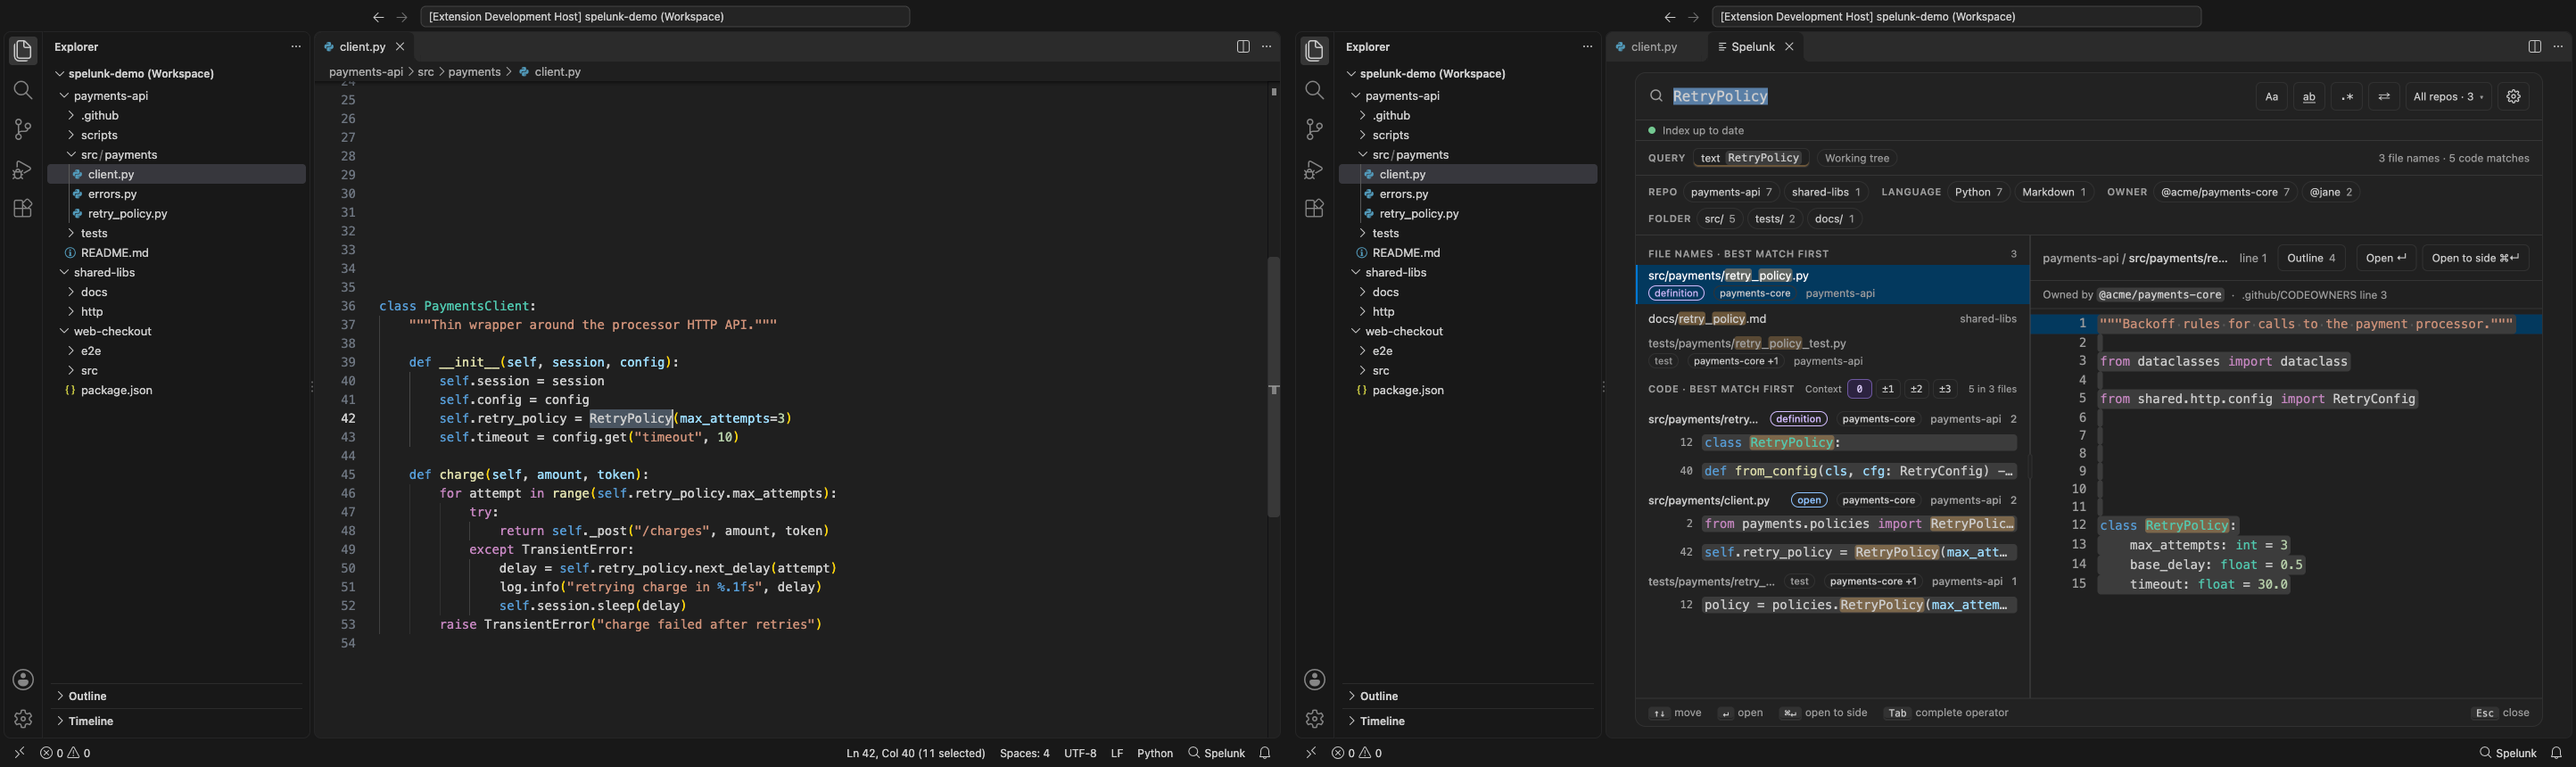
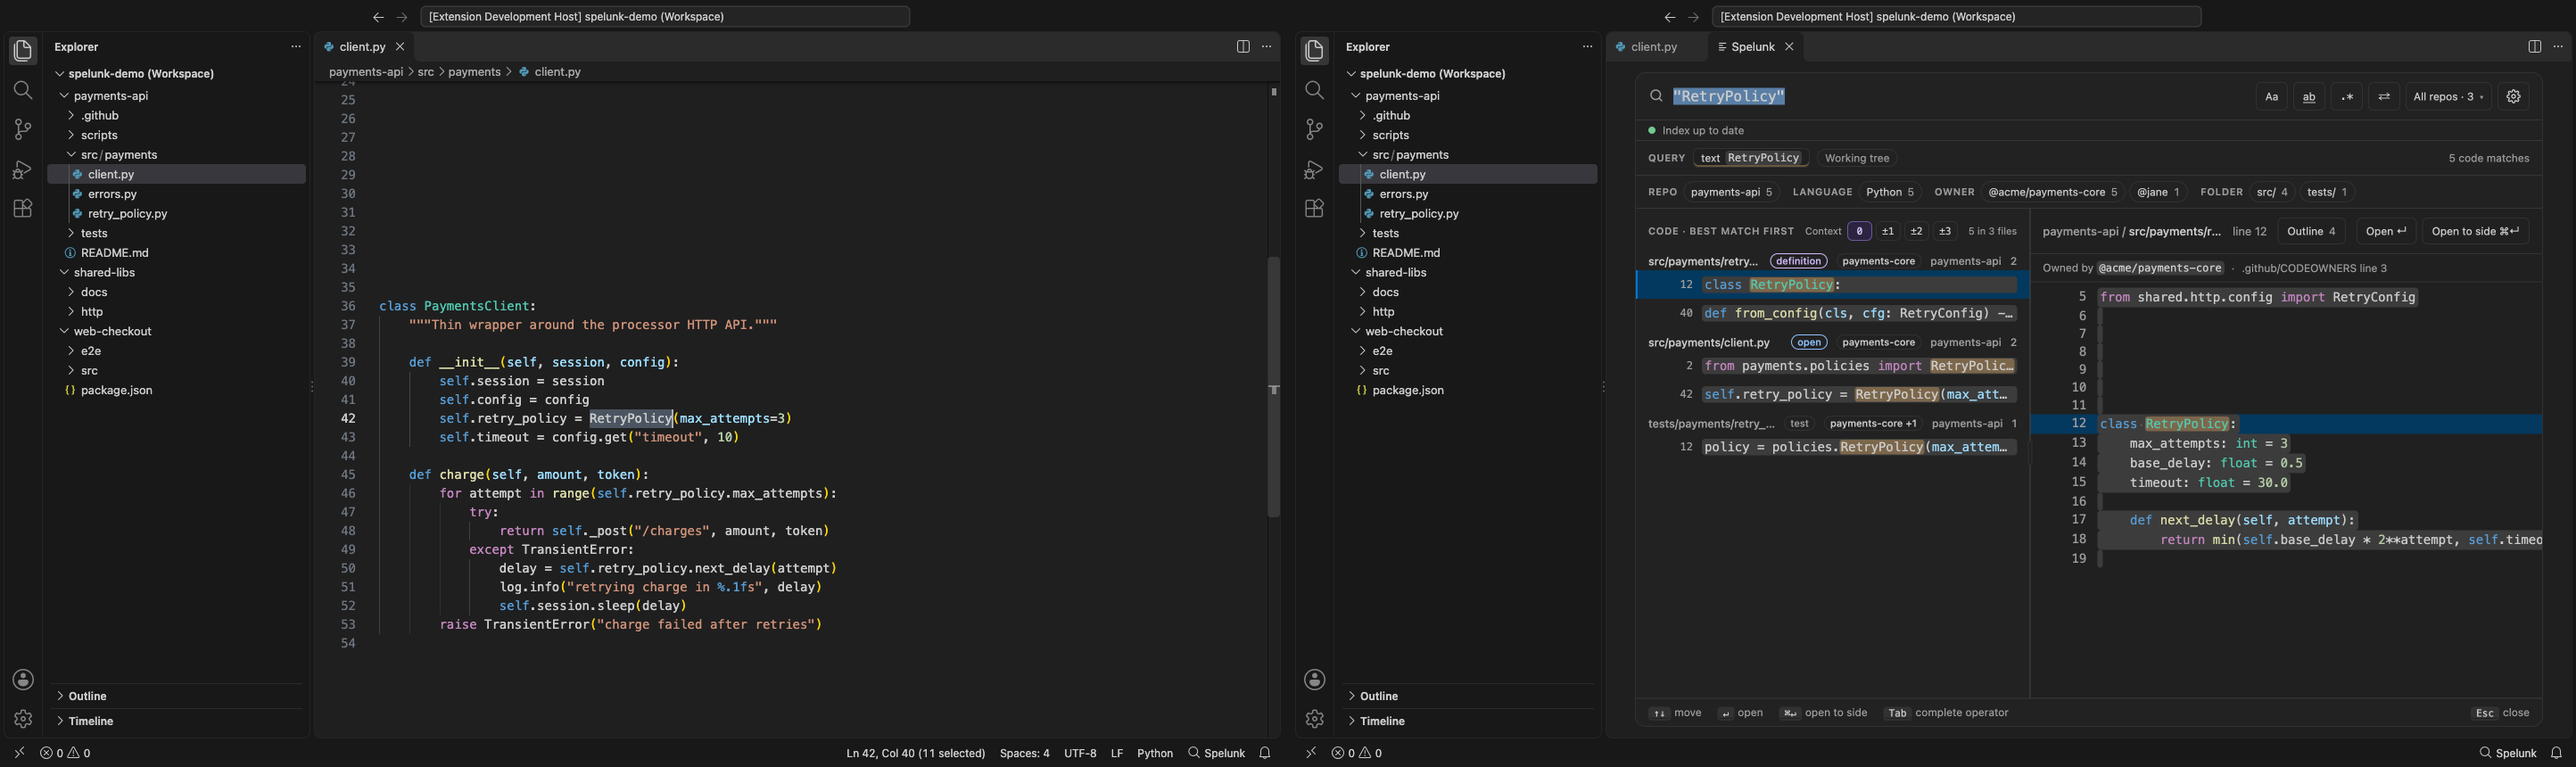
fix(extension): search a selection as an exact phrase, so a word never finds file names by its letters
Selecting RetryPolicy found retry_policy.py, because a bare word also matches
file names by their letters in order. Every selected line is now a quoted
phrase: it finds only the text itself.

Changed region(s): [[0.6233, 0.2419, 0.9972, 0.8163], [0.6544, 0.1209, 0.7168, 0.1512]]

diff --git a/extension/src/test/seedQuery.test.ts b/extension/src/test/seedQuery.test.ts
@@ -18,12 +18,11 @@ function seed(selection: string, last = "timeout"): string {
   return "query" in result ? result.query : `(${result.skipped})`;
 }
 
-test("a word is searched bare, anything else as a phrase", () => {
-  assert.equal(seed("RetryPolicy"), "RetryPolicy");
-  assert.equal(seed("retry_policy.next_delay"), "retry_policy.next_delay");
-  assert.equal(seed("  RetryPolicy  "), "RetryPolicy", "spaces around the selection are dropped");
+test("a line is searched as an exact phrase, even a single word", () => {
+  assert.equal(seed("RetryPolicy"), '"RetryPolicy"');
+  assert.equal(seed("retry_policy.next_delay"), '"retry_policy.next_delay"');
+  assert.equal(seed("  RetryPolicy  "), '"RetryPolicy"', "spaces around the selection are dropped");
   assert.equal(seed("charge failed after retries"), '"charge failed after retries"');
-  assert.equal(seed("Gr\u00F6\u00DFe"), "Gr\u00F6\u00DFe", "letters in any script are a word");
 });
 
 test("text that looks like query syntax is quoted, with its quotes and backslashes escaped", () => {
@@ -34,7 +33,7 @@ test("text that looks like query syntax is quoted, with its quotes and backslash
   assert.equal(seed("-v"), '"-v"');
   assert.equal(seed("OR"), '"OR"');
   assert.equal(seed("NOT"), '"NOT"');
-  assert.equal(seed("or"), "or", "lowercase or is a word to search for");
+  assert.equal(seed("or"), '"or"');
   assert.equal(seed("f(x)"), '"f(x)"');
   assert.equal(seed("a|b"), '"a|b"');
   assert.equal(seed("/charges"), '"/charges"', "a leading slash would open a regex");
@@ -49,16 +48,16 @@ test("with .* pressed in the last query, the selection is an escaped regex", () 
   );
   assert.equal(seed("a/b", "/x/"), String.raw`/a\/b/`, "a slash can't close the regex");
   assert.equal(seed("price $5 [x]", "/x/"), String.raw`/price \$5 \[x\]/`);
-  assert.equal(seed("RetryPolicy", 'lang:python "/not a regex/"'), "RetryPolicy", "a phrase with slashes isn't .*");
+  assert.equal(seed("RetryPolicy", 'lang:python "/not a regex/"'), '"RetryPolicy"', "a phrase with slashes isn't .*");
 });
 
 test("Aa and ab carry over from the last query; filters and other words don't", () => {
-  assert.equal(seed("RetryPolicy", "case:yes word:yes timeout"), "case:yes word:yes RetryPolicy");
-  assert.equal(seed("RetryPolicy", "c:smart w:no timeout"), "c:smart w:no RetryPolicy");
-  assert.equal(seed("RetryPolicy", "lang:python f:src/ timeout"), "RetryPolicy");
-  assert.equal(seed("RetryPolicy", 'case:yes "case:no inside a phrase"'), "case:yes RetryPolicy");
+  assert.equal(seed("RetryPolicy", "case:yes word:yes timeout"), 'case:yes word:yes "RetryPolicy"');
+  assert.equal(seed("RetryPolicy", "c:smart w:no timeout"), 'c:smart w:no "RetryPolicy"');
+  assert.equal(seed("RetryPolicy", "lang:python f:src/ timeout"), '"RetryPolicy"');
+  assert.equal(seed("RetryPolicy", 'case:yes "case:no inside a phrase"'), 'case:yes "RetryPolicy"');
   assert.equal(seed("a.b", "case:yes /x/"), String.raw`case:yes /a\.b/`);
-  assert.equal(seed("RetryPolicy", ""), "RetryPolicy");
+  assert.equal(seed("RetryPolicy", ""), '"RetryPolicy"');
 });
 
 test("several lines become one regex across them, indentation and blank lines ignored", () => {
@@ -69,7 +68,7 @@ test("several lines become one regex across them, indentation and blank lines ig
   );
   assert.equal(seed("a\r\n\r\n  b"), String.raw`/a\n\s*b/`, "Windows line endings, and a blank line");
   assert.equal(seed("a\nb", "case:yes timeout"), String.raw`case:yes /a\n\s*b/`);
-  assert.equal(seed("RetryPolicy\n"), "RetryPolicy", "a trailing newline leaves one line");
+  assert.equal(seed("RetryPolicy\n"), '"RetryPolicy"', "a trailing newline leaves one line");
 });
 
 test("an empty or too long selection keeps the last query", () => {
@@ -79,7 +78,7 @@ test("an empty or too long selection keeps the last query", () => {
     String.raw`/x\n\s*x\n\s*x\n\s*x\n\s*x\n\s*x\n\s*x\n\s*x\n\s*x\n\s*x/`,
   );
   assert.equal(seed(Array.from({ length: MAX_SEED_LINES + 1 }, () => "x").join("\n")), "(tooLong)");
-  assert.equal(seed("x".repeat(MAX_SEED_CHARS)), "x".repeat(MAX_SEED_CHARS));
+  assert.equal(seed("x".repeat(MAX_SEED_CHARS)), `"${"x".repeat(MAX_SEED_CHARS)}"`);
   assert.equal(seed("x".repeat(MAX_SEED_CHARS + 1)), "(tooLong)");
 });
 
@@ -115,6 +114,8 @@ test("the daemon reads every seeded query as the selected text, and finds it", {
       const result = await daemon.request("search/start", { searchId: `seed${index}`, text });
       assert.ok(result.total > 0, `${text} finds the selection`);
     }
+    const exact = await daemon.request("search/start", { searchId: "exact", text: seed("RetryPolicy") });
+    assert.equal(exact.total, 5, "only the 5 lines that say RetryPolicy: no file names, not retry_policy.py");
     const definitions = await daemon.request("search/start", {
       searchId: "defs",
       text: definitionsQuery("RetryPolicy"),

diff --git a/extension/src/seedQuery.ts b/extension/src/seedQuery.ts
@@ -18,10 +18,12 @@ const CASE_TOGGLE = /^(?:case|c):(?:yes|no|smart)$/;
 const WORD_TOGGLE = /^(?:word|w):(?:yes|no)$/;
 
 /**
- * The query for a selection. A line is searched as a word when it is one, else
- * as a "phrase", so quotes, colons, dashes and OR are text, not syntax. With
- * .* pressed in the last query, it is an escaped /regex/; several lines become
- * one regex across them, indentation ignored. Aa and ab carry over.
+ * The query for a selection. A line is searched as a "phrase", even a single
+ * word: a phrase matches only that exact text, in file names too, where a bare
+ * word would also find names with its letters in order; and quotes, colons,
+ * dashes and OR are text, not syntax. With .* pressed in the last query, it is
+ * an escaped /regex/; several lines become one regex across them, indentation
+ * ignored. Aa and ab carry over.
  */
 export function seedFromSelection(selection: string, lastQuery: string): Seed {
   const lines = selection.split(/\r?\n/);
@@ -32,7 +34,7 @@ export function seedFromSelection(selection: string, lastQuery: string): Seed {
   const { toggles, regex } = lastToggles(lastQuery);
   let term: string;
   if (kept.length > 1) term = `/${kept.map((line) => escapeRegex(line)).join(String.raw`\n\s*`)}/`;
-  else term = regex ? `/${escapeRegex(first)}/` : textTerm(first);
+  else term = regex ? `/${escapeRegex(first)}/` : phrase(first);
   return { query: [...toggles, term].join(" ") };
 }
 
@@ -46,9 +48,13 @@ export function usesQuery(name: string): string {
   return `ref:${textTerm(name)}`;
 }
 
-/** A word bare, anything else as a "phrase" with its quotes and backslashes escaped. */
+/** A word bare, anything else as a "phrase". */
 export function textTerm(text: string): string {
-  if (PLAIN_WORD.test(text) && !KEYWORDS.has(text)) return text;
+  return PLAIN_WORD.test(text) && !KEYWORDS.has(text) ? text : phrase(text);
+}
+
+/** The text as a "phrase", its quotes and backslashes escaped. */
+function phrase(text: string): string {
   return `"${text.replaceAll("\\", "\\\\").replaceAll('"', String.raw`\"`)}"`;
 }
 

diff --git a/extension/src/e2e/commands.test.ts b/extension/src/e2e/commands.test.ts
@@ -286,16 +286,16 @@ const TESTS: [name: string, run: () => Promise<void>][] = [
       const editor = await openClientAt(new vscode.Selection(41, 28, 41, 39)); // RetryPolicy on line 42
       assert.equal(editor.document.getText(editor.selection), "RetryPolicy");
       await vscode.commands.executeCommand("spelunk.open", { fromEditor: true });
-      await until("RetryPolicy searched", (state) => state.searched === "RetryPolicy" && state.results.length > 0);
+      await until("RetryPolicy searched", (state) => state.searched === `"RetryPolicy"` && state.results.length > 0);
 
       await openClientAt(new vscode.Selection(41, 32, 41, 32));
       await vscode.commands.executeCommand("spelunk.open", { fromEditor: true });
       const kept = await until("the panel open again", (state) => state.panelOpen);
-      assert.equal(kept.text, "RetryPolicy", "no selection: the last query stays");
+      assert.equal(kept.text, `"RetryPolicy"`, "no selection: the last query stays");
 
       await openClientAt(new vscode.Selection(41, 28, 41, 39));
       await vscode.commands.executeCommand("spelunk.open");
-      assert.equal((await until("the panel open", (state) => state.panelOpen)).text, "RetryPolicy");
+      assert.equal((await until("the panel open", (state) => state.panelOpen)).text, `"RetryPolicy"`);
     },
   ],
   [

diff --git a/docs/dev/progress.md b/docs/dev/progress.md
@@ -510,21 +510,23 @@ address (`permalinks.ts`), and the panel learns each repo's host from `remotes.s
 
 ## Search from your code (2.1)
 
-Mock 50 (`seed-from-editor`): the search key, pressed in the editor with text selected, searches that text; with
-nothing selected it reopens the last query, as before. Its binding has an editor-only twin that passes
-`{ fromEditor: true }` to `spelunk.open`, so a selection left in a file is ignored from the Explorer, the terminal, the
-panel or the Command Palette. `seedQuery.ts` turns the selection into a query: a word bare, any other line a quoted
-phrase (so `content:"retry"`, `TransientError:`, `-v` and `OR` are text), an escaped `/regex/` when the last query's
-`.*` was pressed, several lines one regex across them; `case:` and `word:` carry over; more than 10 lines or 1,000
-characters keep the last query, with a status bar note. The replaced query goes under Recent, and the panel types the
-new one in (`state.restore`'s `seeded`), so ⌘Z brings the old one back. **Spelunk: Find Definitions** and **Find
-Uses**, on the editor's right-click menu, search `sym:/^Name$/` and `ref:Name` for the name at the cursor.
+Mock 50 (`seed-from-editor`): the search key, pressed in the editor with text selected, searches that text; with nothing
+selected it reopens the last query, as before. Its binding has an editor-only twin that passes `{ fromEditor: true }` to
+`spelunk.open`, so a selection left in a file is ignored from the Explorer, the terminal, the panel or the Command
+Palette. `seedQuery.ts` turns the selection into a query: a line is a quoted phrase, a single word too, so it matches
+only that text and never file names by their letters (`"RetryPolicy"` doesn't find `retry_policy.py`), and
+`content:"retry"`, `TransientError:`, `-v` and `OR` are text; an escaped `/regex/` when the last query's `.*` was
+pressed, several lines one regex across them; `case:` and `word:` carry over; more than 10 lines or 1,000 characters
+keep the last query, with a status bar note. The replaced query goes under Recent, and the panel types the new one in
+(`state.restore`'s `seeded`), so ⌘Z brings the old one back. **Spelunk: Find Definitions** and **Find Uses**, on the
+editor's right-click menu, search `sym:/^Name$/` and `ref:Name` for the name at the cursor.
 `spelunk.search.seedFromSelection` turns the selection search off.
 
-- Host: `extension/src/test/seedQuery.test.ts` (words, phrases, escaped quotes and backslashes, operator-like text,
+- Host: `extension/src/test/seedQuery.test.ts` (every line a phrase, escaped quotes and backslashes, operator-like text,
   `OR`/`NOT`, a leading slash or dash, regex escaping with `.*` on, toggles carried and filters not, lines across,
   blank and too-long selections, the find queries, and every one run against the real daemon: no diagnostics, and it
-  finds the selection; `sym:/^RetryPolicy$/` finds the class alone), the controller's seeded restore (Recent keeps the
+  finds the selection; `"RetryPolicy"` finds its 5 lines and no file names; `sym:/^RetryPolicy$/` finds the class
+  alone), the controller's seeded restore (Recent keeps the
   replaced query; the same query, a Try query and a plain reopen aren't seeded), the manifest (each preset's editor
   twin, the right-click menu) and `spelunk.search.seedFromSelection`'s default.
 - Panel: `webview/test/seedFromEditor.test.mjs` (a seeded query replaces the box's text selected, and ⌘Z brings the

diff --git a/CHANGELOG.md b/CHANGELOG.md
@@ -8,9 +8,10 @@ All notable changes to this project are documented here. The format follows
 ### Added
 
 - Select text in the editor and press the search key to search it: the box holds the selection, selected so typing
-  replaces it, and ⌘Z brings back the query it replaced (also kept under Recent). Text that looks like query syntax
-  is searched as text, several lines as one regex across them, and Aa, ab and .* carry over. With nothing selected,
-  or with the focus outside the editor, the key reopens the last query as before. New setting:
+  replaces it, and ⌘Z brings back the query it replaced (also kept under Recent). The selection is matched exactly,
+  never file names by their letters; text that looks like query syntax is searched as text, several lines as one
+  regex across them, and Aa, ab and .* carry over. With nothing selected, or with the focus outside the editor, the
+  key reopens the last query as before. New setting:
   `spelunk.search.seedFromSelection` (on by default).
 - **Spelunk: Find Definitions** and **Spelunk: Find Uses**, on the editor's right-click menu and in the Command
   Palette, search where the name at the cursor is defined (exactly that name) and the lines that use it.
